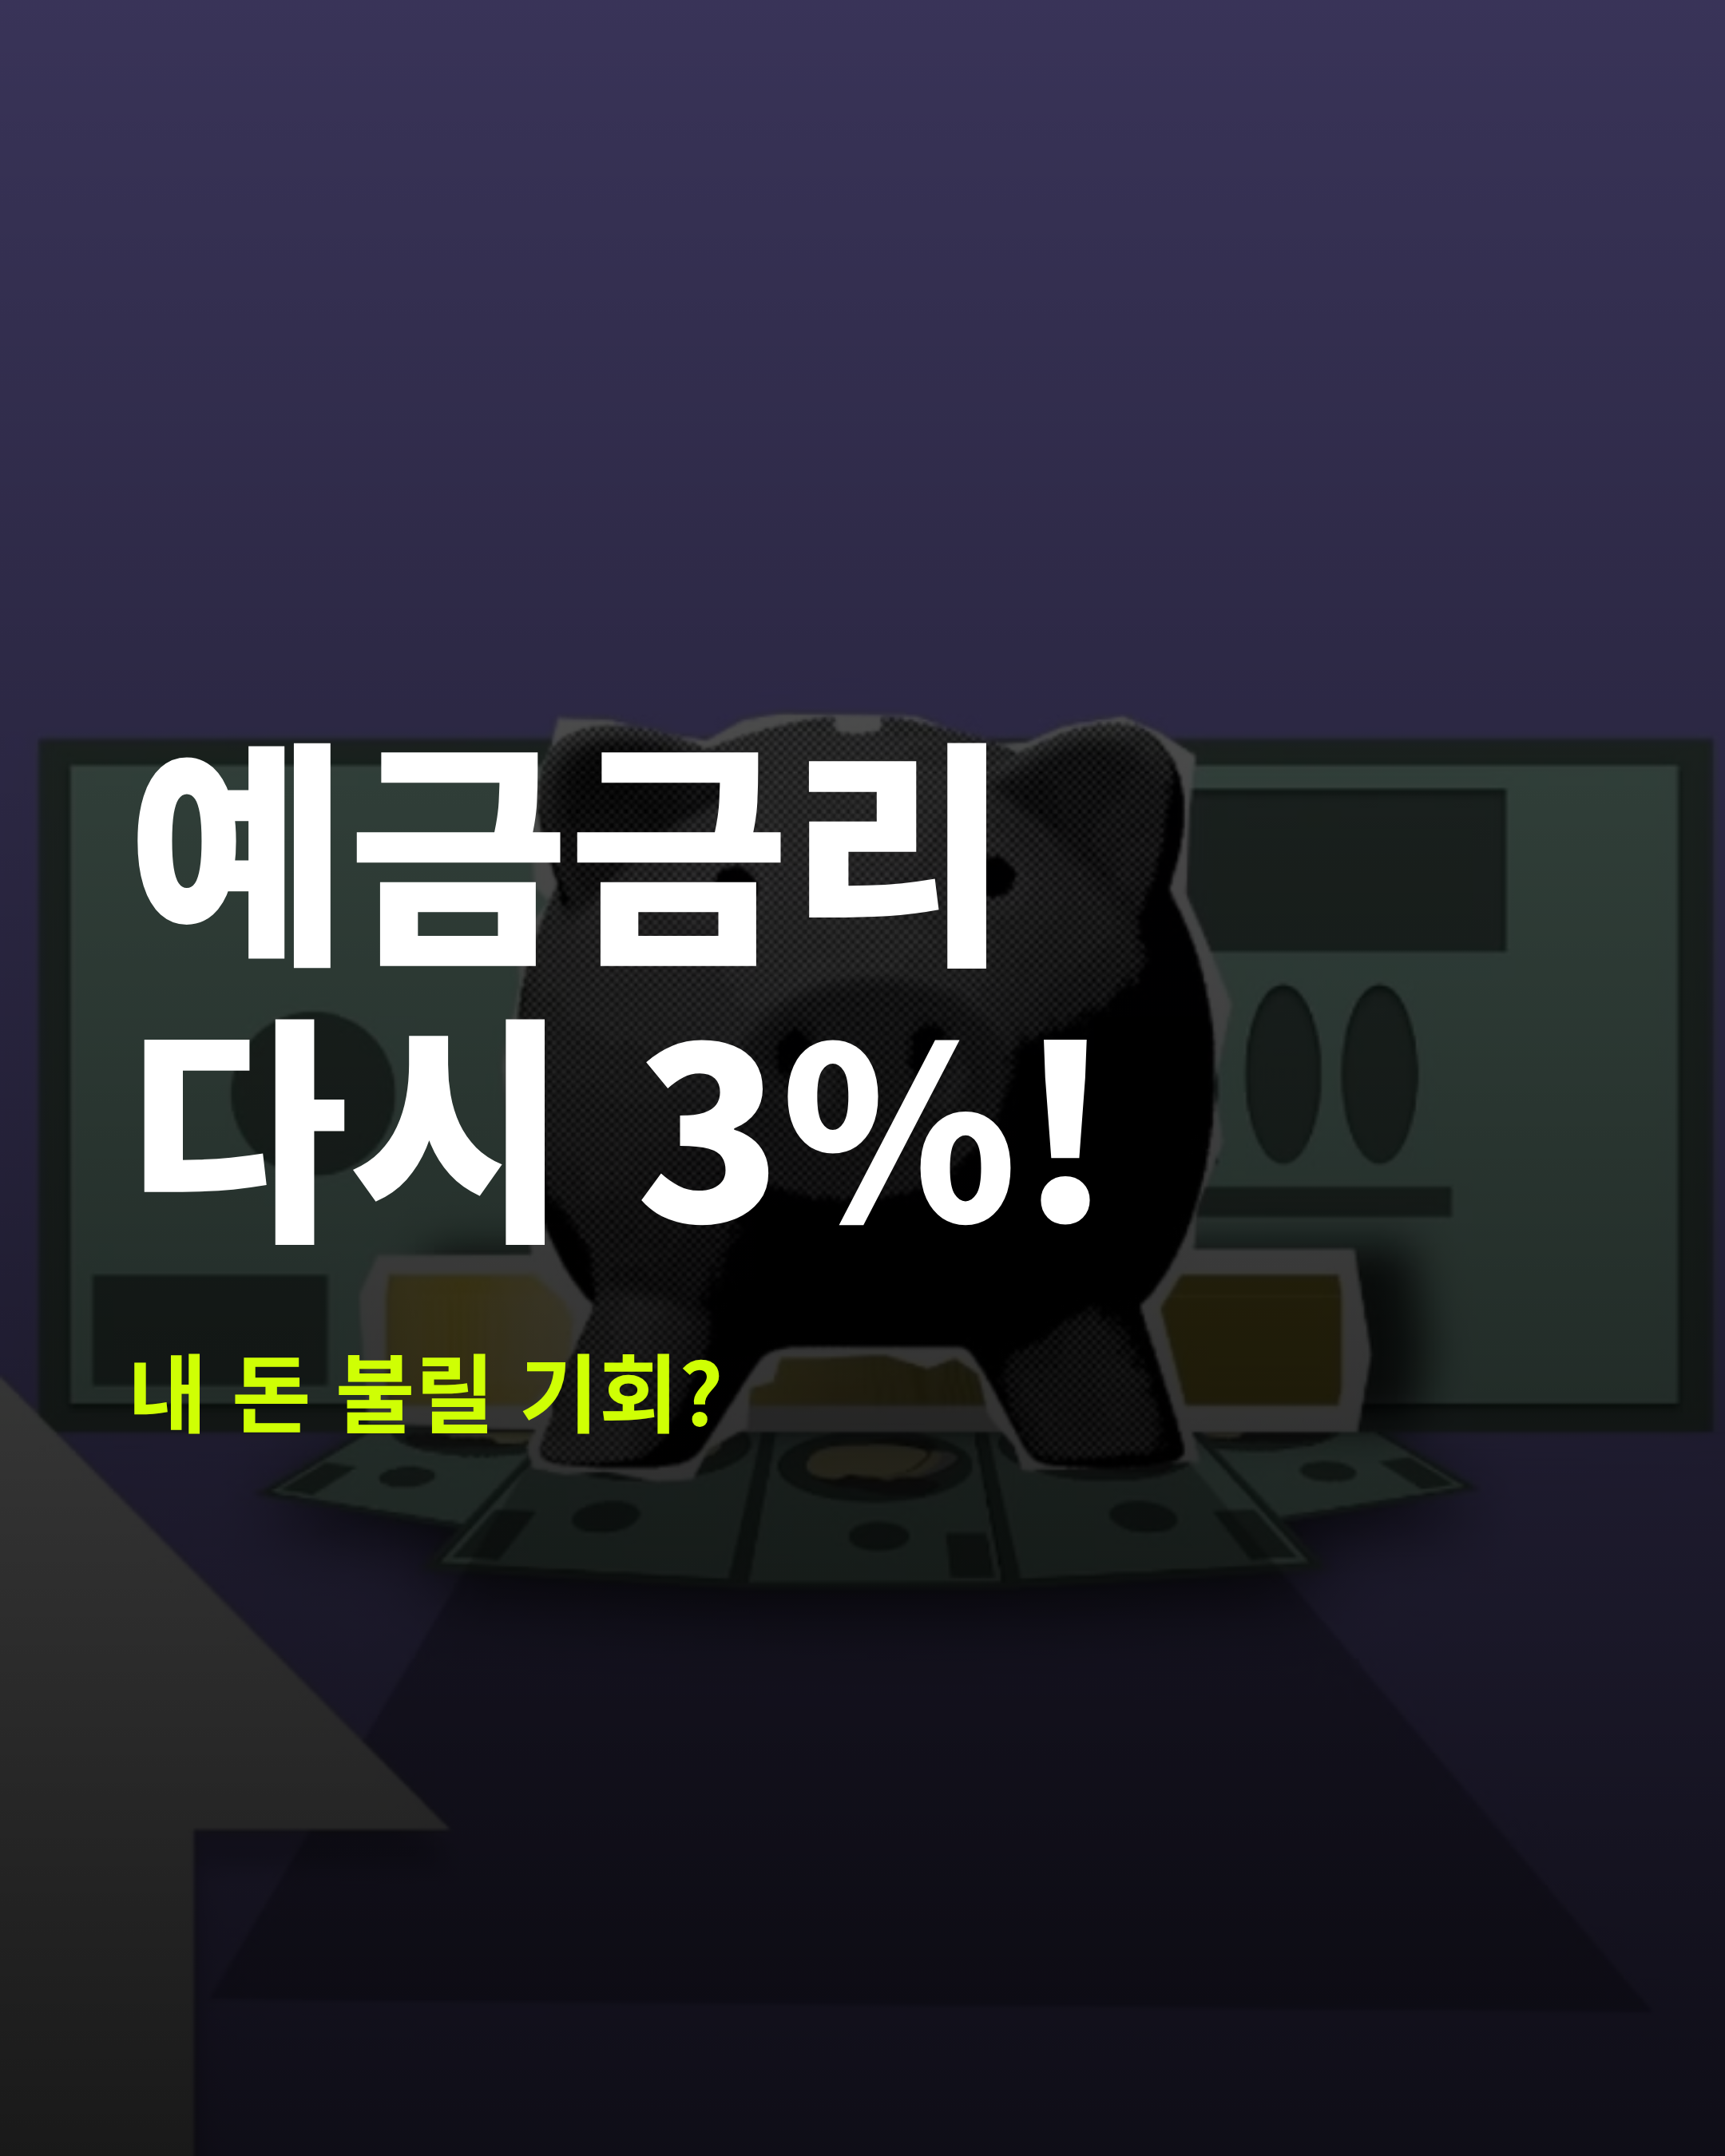
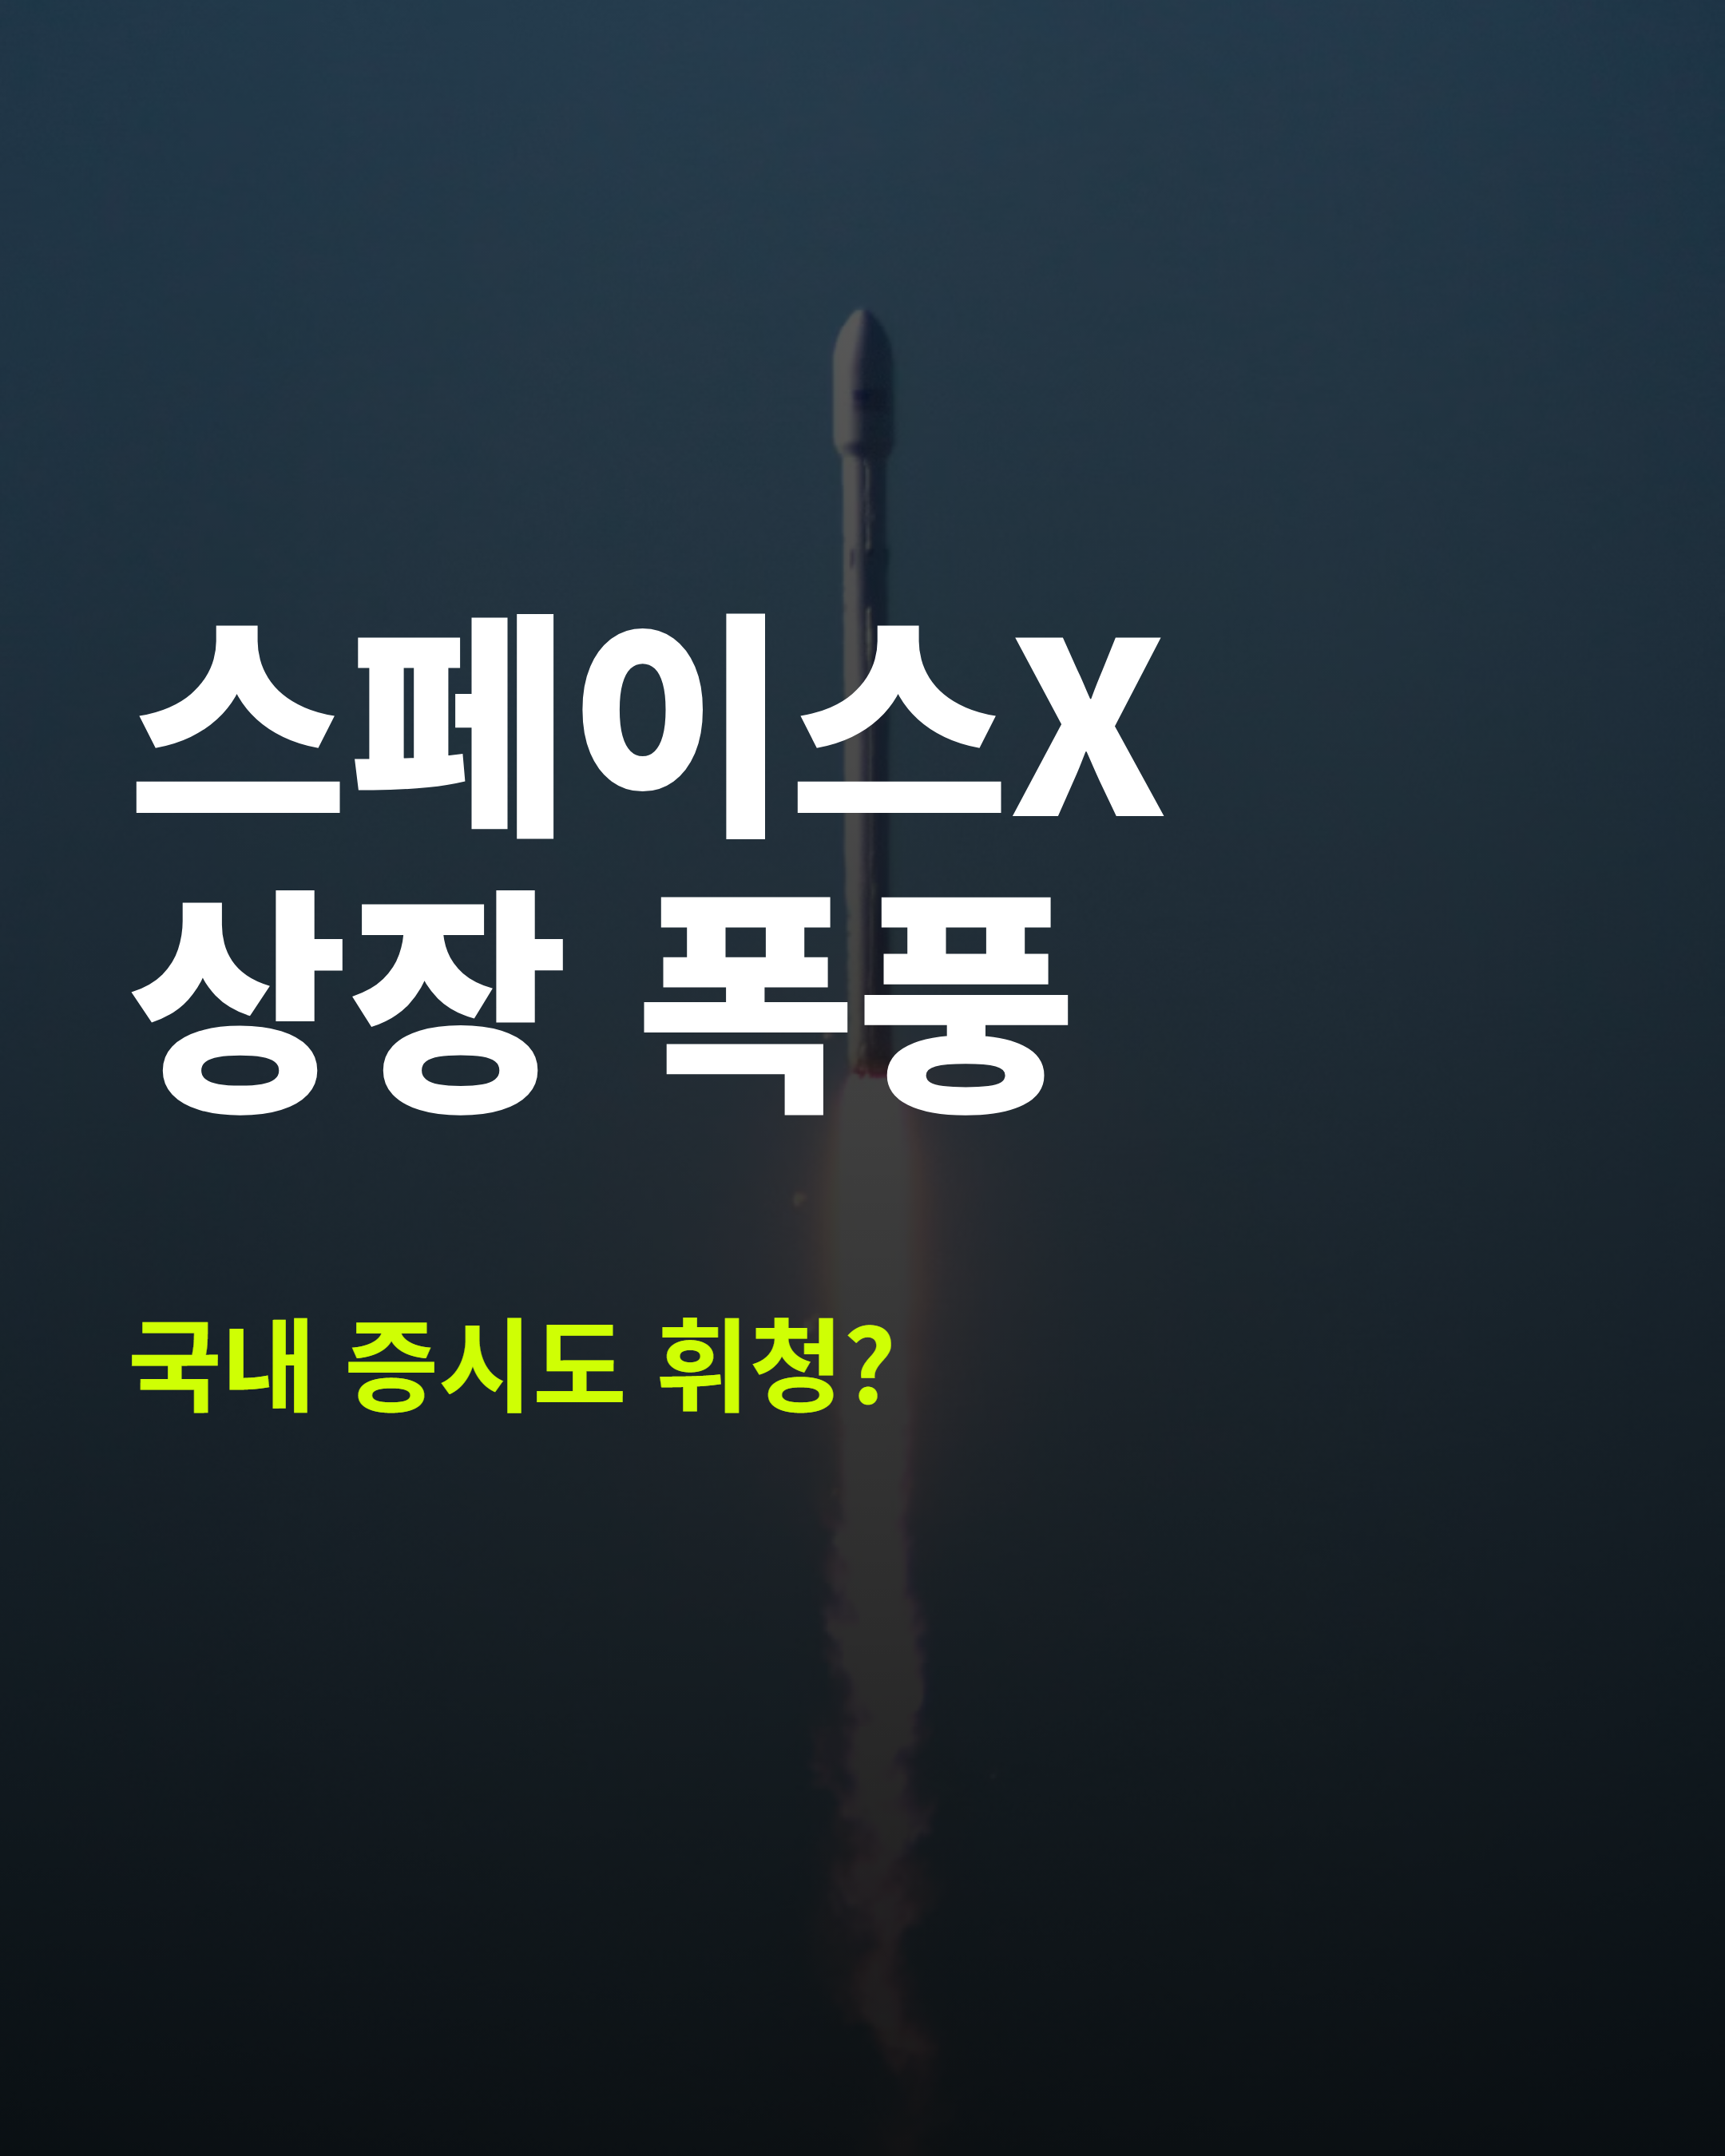
Add CLAUDE.md with project architecture and commands

diff --git a/CLAUDE.md b/CLAUDE.md
@@ -1,0 +1,75 @@
+# CLAUDE.md
+
+This file provides guidance to Claude Code (claude.ai/code) when working with code in this repository.
+
+## What this project does
+
+**glend-cards** is a fully automated Instagram card news pipeline for the Korean economic news channel "GLEND". Every day it:
+1. Fetches Korean economic headlines from Google News RSS
+2. Asks Gemini to pick a topic and write 3-card content (JSON)
+3. Fetches matching background photos from Pexels
+4. Renders 4 PNG cards (1080×1350 px) via Playwright/Chromium
+5. Commits the PNGs to GitHub (so Instagram can fetch them via raw URL)
+6. Posts a carousel to Instagram via the Graph API
+
+## Commands
+
+```bash
+# Set up (first time)
+pip install -r requirements.txt
+python -m playwright install chromium
+
+# Full pipeline (local, with random delay)
+python daily.py
+
+# Individual steps
+python generate.py   # fetch news → Gemini → Pexels → content.json
+python render.py     # content.json → output/card{1-4}.png
+python upload.py     # dry-run preview (no actual post)
+python upload.py go  # actually post to Instagram
+
+# Test individual APIs
+python test_gemini.py
+python test_pexels.py
+python test_news.py
+python test_insta.py
+```
+
+## Required environment variables (`.env`)
+
+```
+GEMINI_API_KEY=...
+PEXELS_API_KEY=...
+IG_TOKEN=...        # Instagram Graph API long-lived token
+IG_USER_ID=...      # Instagram business account numeric ID
+```
+
+## Architecture
+
+### Data flow
+`generate.py` → `content.json` → `render.py` → `output/card*.png` → git push → `upload.py`
+
+### Card structure (`content.json`)
+- **card1** (hook): `title` (2 lines, ≤6 chars/line), `sub` (≤15 chars), `bg` (Pexels URL)
+- **card2** (analysis): `subtitle` (2 lines), `lines` (3 lines, 13–16 chars each), `bg`
+- **card3** (insight): `subtitle` (2 lines), `lines` (3 lines, 13–16 chars each), `bg`
+- **caption**: Instagram caption text with hashtags (HTML `<b>` tags are stripped before posting)
+
+### Rendering (`render.py` + `templates/card.html`)
+Playwright opens `templates/card.html` as a local file in a 1080×1350 viewport (device_scale_factor=2 → 2160×2700 actual pixels). Card content is injected via `page.evaluate()`. Card 4 is always the brand card (shows `assets/logo.png` full-bleed). A font-size auto-shrink loop prevents lines from overflowing 920 px wide.
+
+### Upload flow (`upload.py`)
+Images are served via `https://raw.githubusercontent.com/trussvideo1/glend-cards/main/output/card{N}.png`. Each card is registered as a carousel item via the Instagram Graph API, then published as a single carousel post. A retry loop handles Instagram's async image processing (up to 10 × 8s waits). `upload_log.txt` tracks the last post date to enforce one-post-per-day.
+
+### CI vs local orchestrator
+- `daily_ci.py` — used by GitHub Actions; sets git identity (`github-actions`) before committing
+- `daily.py` — used locally; assumes git identity already configured
+- Both add a random delay (0–4/5 h) so posts don't always land at the same time
+
+### GitHub Actions
+`.github/workflows/daily.yml` triggers at UTC 02:00 (KST 11:00). Secrets required: `GEMINI_API_KEY`, `PEXELS_API_KEY`, `IG_TOKEN`, `IG_USER_ID`.
+
+## Key constraints
+- Gemini prompt enforces strict character limits: card titles ≤6 chars/line, body lines 13–16 chars. Violating these causes visual overflow.
+- Instagram requires images to be publicly accessible URLs before the carousel can be published — hence the GitHub raw CDN approach.
+- The `<b>` tags in `lines` and `caption` are intentional: `render.py` passes them raw to HTML (styled yellow in CSS), while `upload.py` strips them for the plain-text caption.